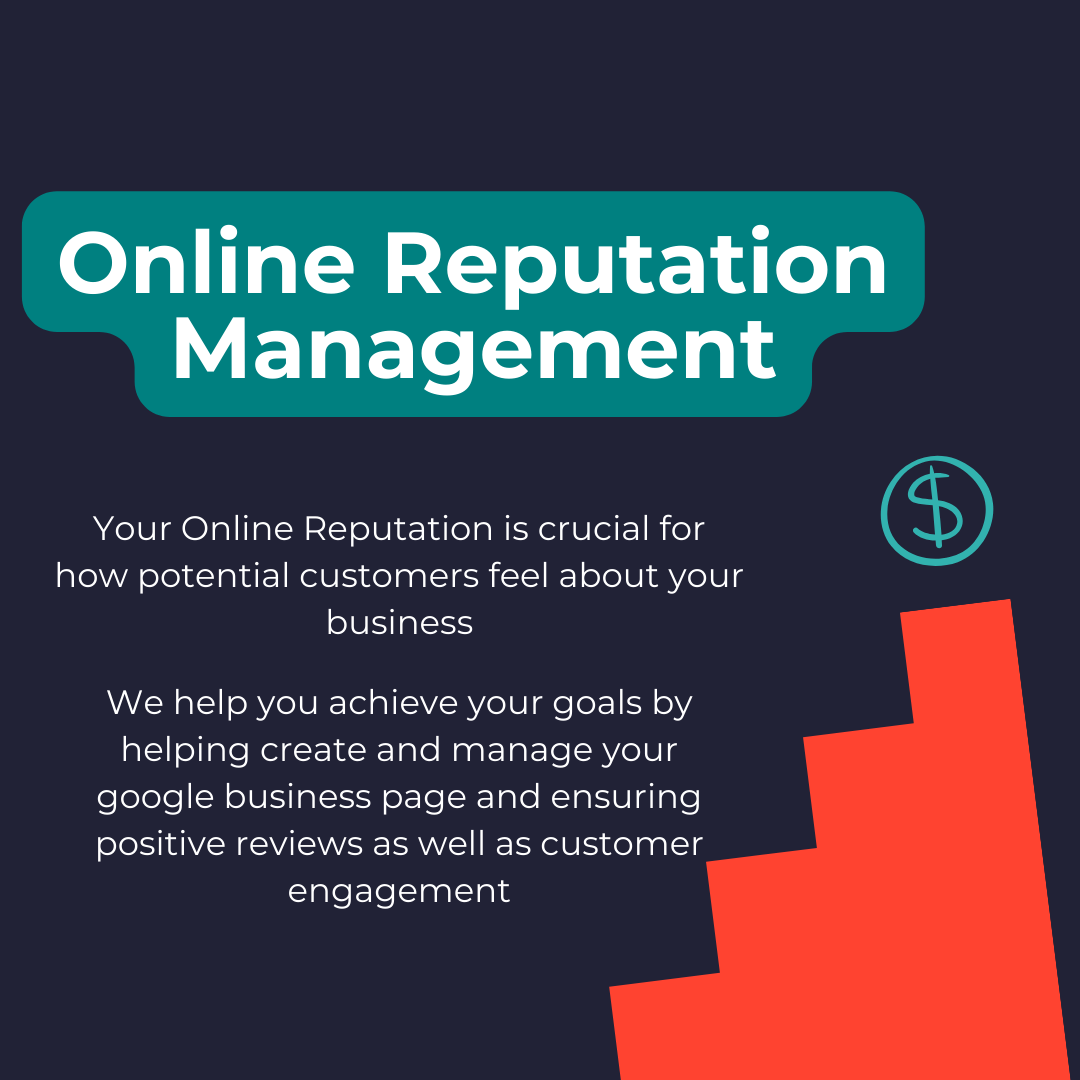
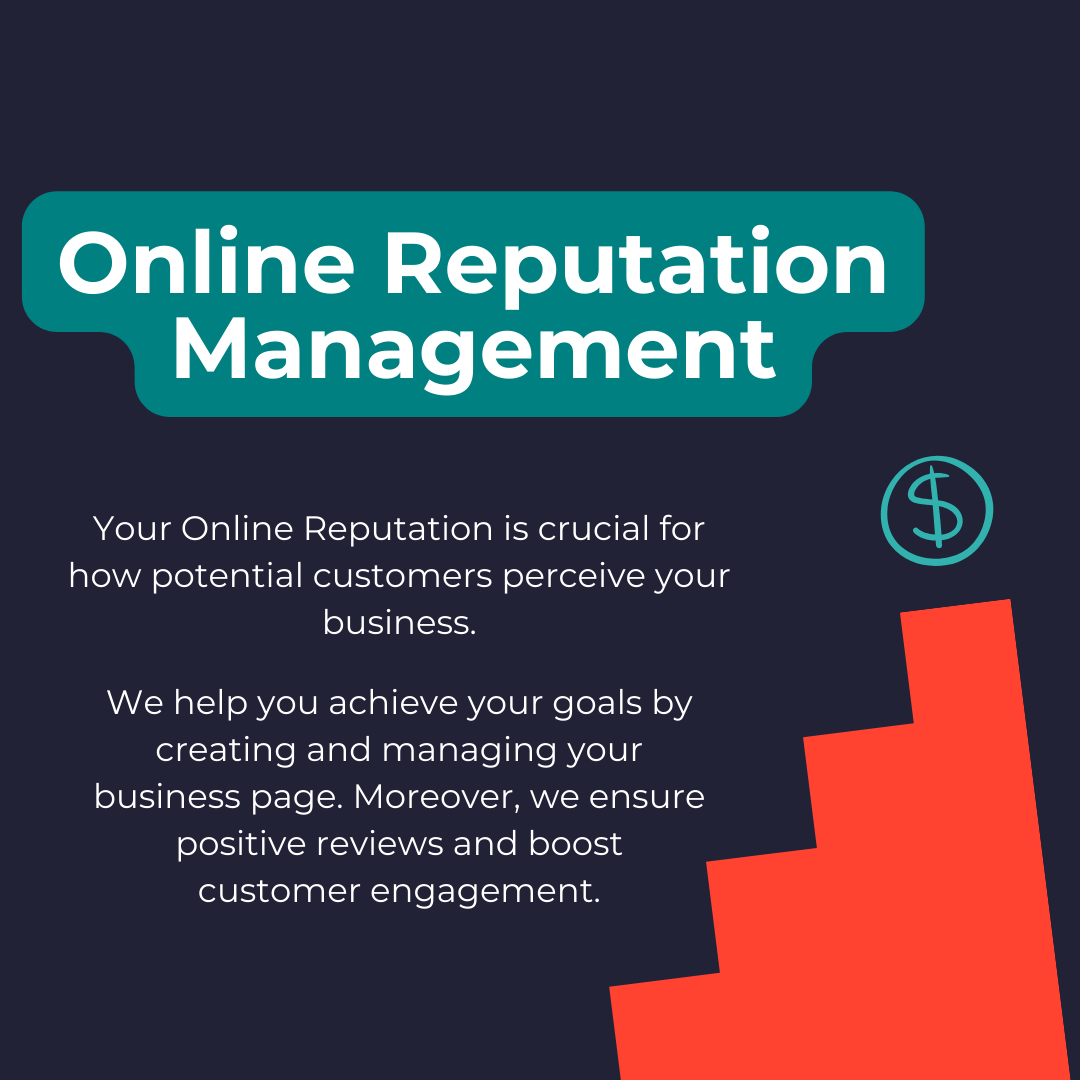
fixed images and button

Changed region(s): [[0.0917, 0.6722, 0.6722, 0.8556], [0.0611, 0.5194, 0.7028, 0.6111], [0.4889, 0.825, 0.5194, 0.8556]]

diff --git a/docs/index.html b/docs/index.html
@@ -43,7 +43,7 @@
             </p>
         </div>
         <div class="button-border">
-            <button type="button">Get your solution today!</button>
+            <button onclick="window.location.href = './pages/contact.html';">Get your solution today!</button>
         </div>
     </main>
 </body>
